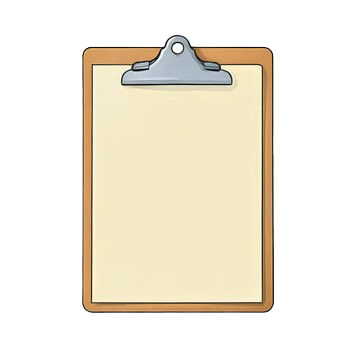
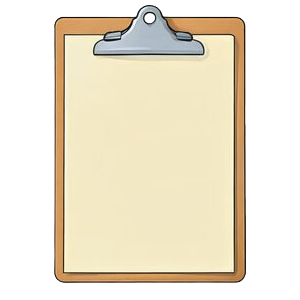
add clipboard popup with page navigation

Changed region(s): [[0.18, 0.0, 0.84, 0.96]]

diff --git a/frontend/lib/components/recipe_overlay.dart b/frontend/lib/components/recipe_overlay.dart
@@ -1,0 +1,111 @@
+import 'package:chaos_kitchen/game/game.dart';
+import 'package:flutter/material.dart';
+
+class RecipeOverlay extends StatefulWidget {
+  final ChaosKitchenGame game;
+
+  const RecipeOverlay({super.key, required this.game});
+
+  @override
+  State<RecipeOverlay> createState() => _RecipeOverlayState();
+}
+
+class _RecipeOverlayState extends State<RecipeOverlay> {
+  int _pageNumber = 0;
+  final int _totalPages = 5;
+
+  void _nextPage() {
+    if (_pageNumber < _totalPages - 1) {
+      setState(() {
+        _pageNumber += 1;
+      });
+    }
+  }
+
+  void _previousPage() {
+    if (_pageNumber > 0) {
+      setState(() {
+        _pageNumber -= 1;
+      });
+    }
+  }
+
+  @override
+  Widget build(BuildContext context) {
+    return SafeArea(
+      child: Stack(
+        alignment: Alignment.center,
+        children: [
+          Positioned.fill(
+            child: Image.asset(
+              'assets/images/clipboard.png',
+              fit: BoxFit.fitHeight,
+            ),
+          ),
+
+          Align(
+            alignment: Alignment.topLeft,
+            child: GestureDetector(
+              onTap: () {
+                widget.game.closeRecipe();
+              },
+              child: Center(
+                heightFactor: 1.5,
+                child: Padding(
+                  padding: const EdgeInsets.only(left: 250.0),
+                  child: Image.asset(
+                    'assets/images/cross_small.png',
+                    width: 32,
+                    height: 32,
+                    color: Colors.white,
+                  ),
+                ),
+              ),
+            ),
+          ),
+
+          Align(
+            alignment: Alignment.bottomCenter,
+            child: Padding(
+              padding: const EdgeInsets.only(bottom: 30.0),
+              child: Row(
+                mainAxisAlignment: MainAxisAlignment.center,
+                crossAxisAlignment: CrossAxisAlignment.center,
+                children: [
+                  GestureDetector(
+                    onTap: _previousPage,
+                    child: Image.asset(
+                      'assets/images/arrow_curve_left.png',
+                      width: 48,
+                      height: 48,
+                    ),
+                  ),
+                  const SizedBox(width: 60),
+
+                  Text(
+                    '${_pageNumber + 1}',
+                    style: const TextStyle(
+                      fontSize: 20,
+                      fontWeight: FontWeight.bold,
+                      color: Colors.black,
+                    ),
+                  ),
+
+                  const SizedBox(width: 60),
+                  GestureDetector(
+                    onTap: _nextPage,
+                    child: Image.asset(
+                      'assets/images/arrow_curve_right.png',
+                      width: 48,
+                      height: 48,
+                    ),
+                  ),
+                ],
+              ),
+            ),
+          ),
+        ],
+      ),
+    );
+  }
+}

diff --git a/frontend/lib/room/game.dart b/frontend/lib/room/game.dart
@@ -2,6 +2,7 @@ import 'package:chaos_kitchen/components/lobby_overlay.dart';
 import 'package:chaos_kitchen/game/game.dart';
 import 'package:chaos_kitchen/components/fridge_overlay.dart';
 import 'package:chaos_kitchen/components/pantry_overlay.dart';
+import 'package:chaos_kitchen/components/recipe_overlay.dart';
 import 'package:flame/game.dart';
 import 'package:flutter/material.dart';
 
@@ -44,6 +45,10 @@ class GameScreen extends StatelessWidget {
 
             'lobby_overlay': (context, game) {
               return LobbyOverlay(game: game);
+            },
+
+            'recipe_overlay': (context, game) {
+              return RecipeOverlay(game: game);
             },
           },
         ),

diff --git a/frontend/lib/game/game.dart b/frontend/lib/game/game.dart
@@ -91,4 +91,14 @@ class ChaosKitchenGame extends FlameGame with HasCollisionDetection {
     overlays.remove('pantry_overlay');
     resumeEngine();
   }
+
+  void openRecipe() {
+    pauseEngine();
+    overlays.add('recipe_overlay');
+  }
+
+  void closeRecipe() {
+    overlays.remove('recipe_overlay');
+    resumeEngine();
+  }
 }

diff --git a/frontend/lib/game/objects/clipboard.dart b/frontend/lib/game/objects/clipboard.dart
@@ -9,5 +9,7 @@ class ClipboardObject extends InteractableObject {
   void interact(Player player) {
     // For now just log it
     print('Clipboard interacted with by player at ${player.position}');
+
+    game.openRecipe();
   }
 }
